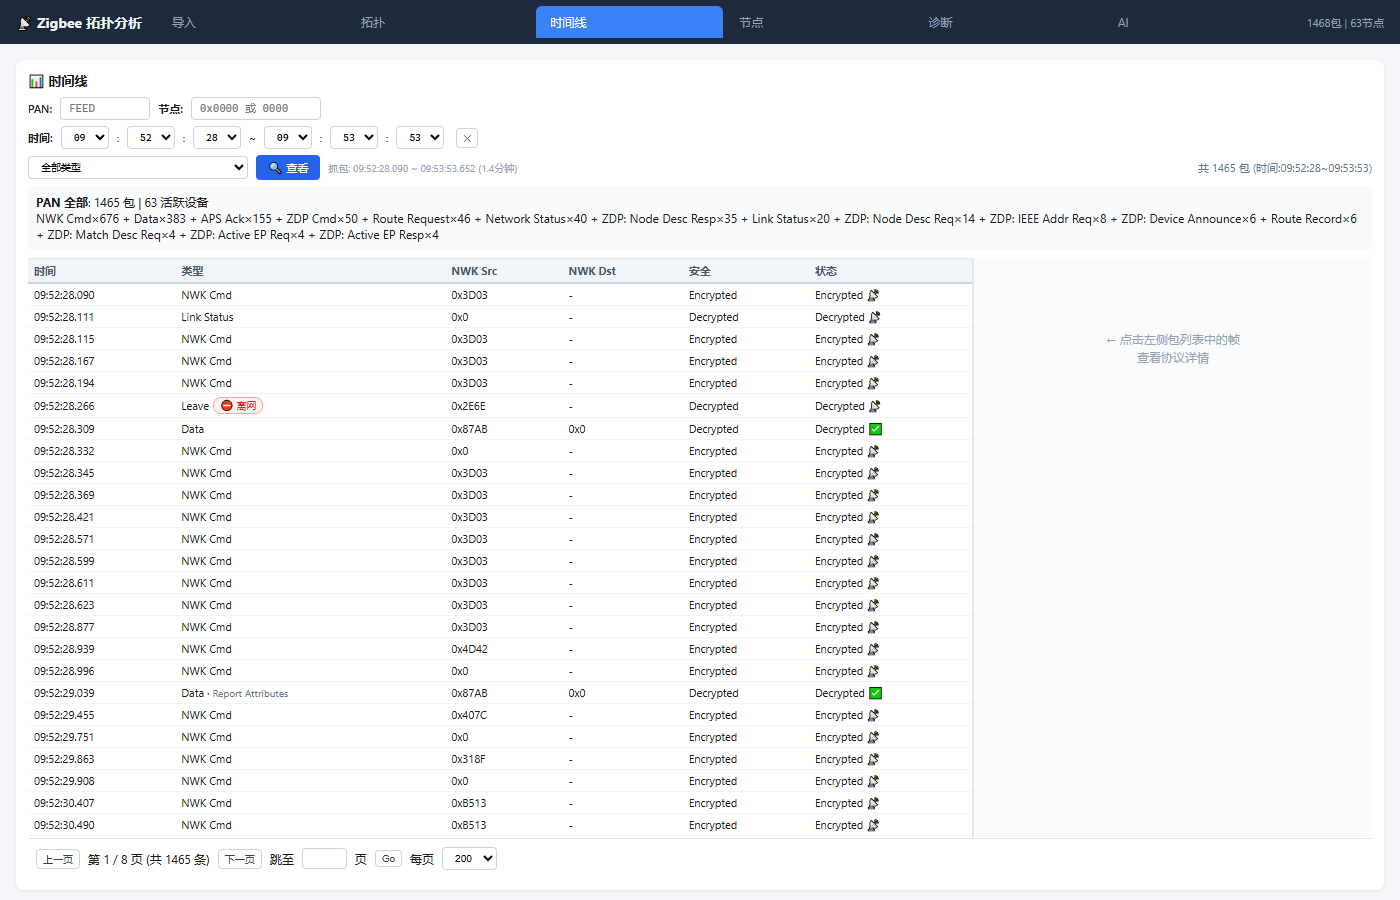
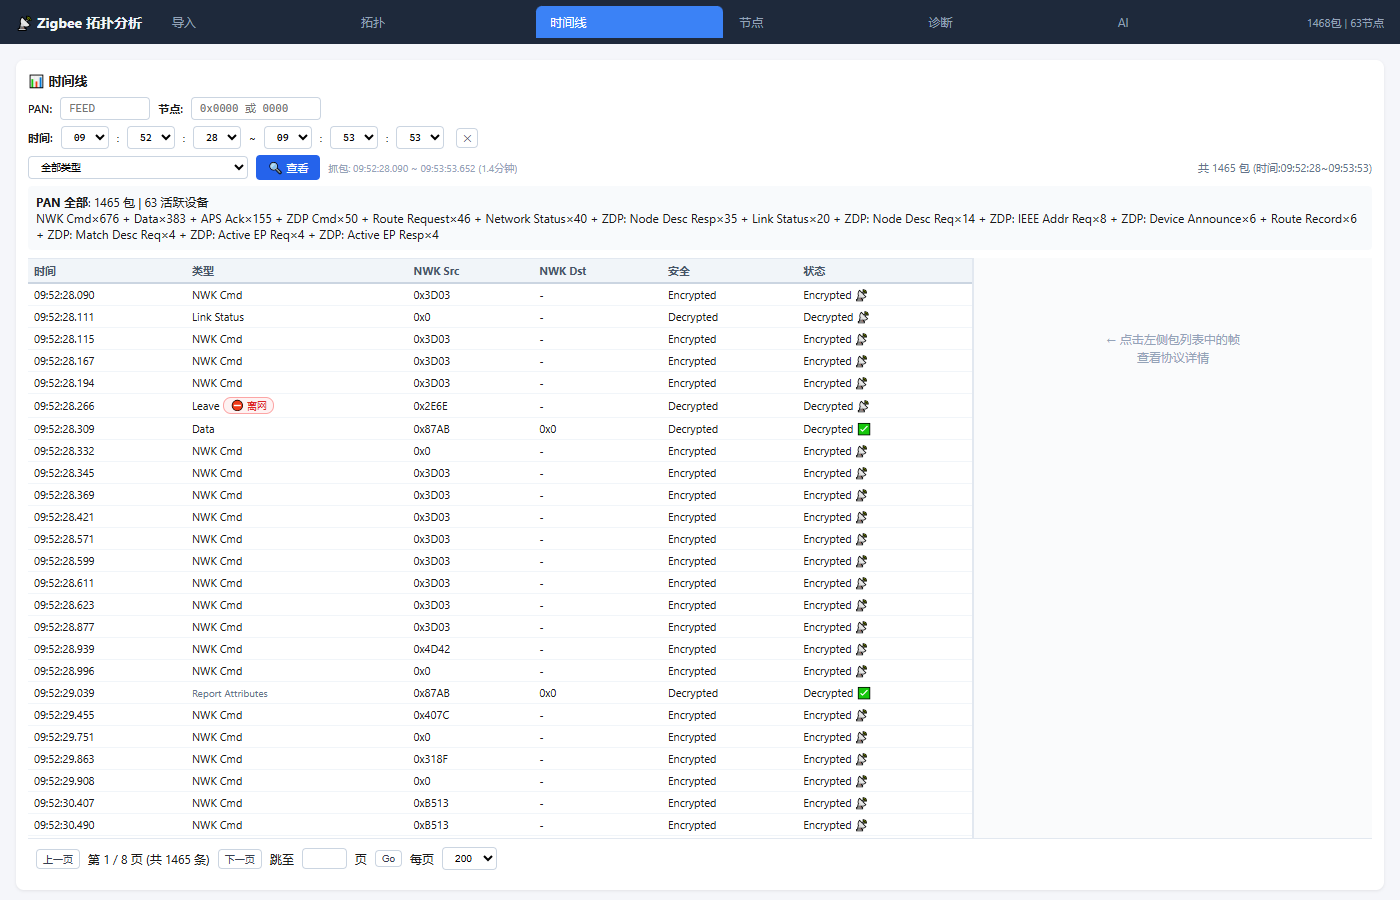
fix: ZCL 命令按簇正确显示 (Window Covering 0x01=Down/Close) + 类型列去 Data 前缀
- 根因: 前端 _tlZclCmd 用混合硬编码表 (含 OTA 命令), 不按簇区分 —
  0x01 在 Window Covering 簇 (0x0102) 是 Down/Close, 被误标 OTA: Query Next Image
- 修复: packet_detail 输出 zcl_cmd_name (后端 zcl_defs 按簇解析), 前端详情优先使用;
  _tlZclCmd 降为兜底; 类型列去掉 "Data ·" 直接显示命令/簇名
- 验证: 8721 实例 — 详情端点 zcl_cmd_name=Reset to Factory Defaults (Basic);
  类型列 "Report Attributes" 无前缀 (playwright); 0x0102→Down/Close 依据 zcl_defs 源码

diff --git a/frontend/js/timeline.js b/frontend/js/timeline.js
@@ -188,13 +188,13 @@ reg('tl', function(){
         }else if(p.pkt_type==='Network Status'){
           evBadge='<span class="badge-ev badge-nstat" title="网络状态命令 (NWK 0x03), 详见右侧详情">⚠ 状态</span>';
         }
-        // ZCL 命令级显示 (U5): 解密 Data 帧类型列显示实际命令 (如 "Report Attributes"),
-        // 而非笼统的 "Data"; 过滤仍按 pkt_type=Data (后端), 仅展示增强
+        // ZCL 命令级显示 (U5): 解密 Data 帧类型列直接显示实际命令 (如 "Down / Close"),
+        // 去掉笼统的 "Data"; 过滤仍按 pkt_type=Data (后端), 仅展示增强
         var typeDisp=p.pkt_type;
         if(p.decrypted&&p.zcl_cmd_name){
-          typeDisp='Data · <span class="zcl-cmd" title="ZCL 簇: '+(p.aps_cluster_name||'?')+' · 命令: '+p.zcl_cmd_name+'">'+p.zcl_cmd_name+'</span>';
+          typeDisp='<span class="zcl-cmd" title="ZCL 簇: '+(p.aps_cluster_name||'?')+' · 命令: '+p.zcl_cmd_name+'">'+p.zcl_cmd_name+'</span>';
         }else if(p.decrypted&&p.aps_cluster_name){
-          typeDisp='Data · <span class="zcl-cmd" title="ZCL 簇: '+p.aps_cluster_name+'">'+p.aps_cluster_name+'</span>';
+          typeDisp='<span class="zcl-cmd" title="ZCL 簇: '+p.aps_cluster_name+'">'+p.aps_cluster_name+'</span>';
         }
         var decIcon='';
         if(isNwkCmdRow){
@@ -487,8 +487,11 @@ reg('tl', function(){
           var dir='?';
           if(typeof fcf==='object'&&fcf['zbee_zcl.dir']==='1')dir='Server→Client';
           else if(typeof fcf==='object'&&fcf['zbee_zcl.dir']==='0')dir='Client→Server';
+          // ⚠ 修复 (U5): 优先用后端按簇解析的命令名 (zcl_defs), 前端混合表兜底 —
+          // 此前 0x01 在 Window Covering 簇被误标为 "OTA: Query Next Image"
+          var zclCmd=d.zcl_cmd_name||_tlZclCmd(zcl);
           html+=_tlLayer('ZCL', '#7c3aed', [
-            ['Command', _tlZclCmd(zcl)],
+            ['Command', zclCmd],
             ['Direction', dir],
             ['Seq#', zcl['zbee_zcl.cmd.tsn']||'?'],
           ]);

diff --git a/backend/api/files.py b/backend/api/files.py
@@ -878,4 +878,7 @@ async def packet_detail(pkt_id: int):
         "decrypted": p.get("decrypted", False),
         "security": p.get("security", ""),
         "layers": layers,  # 完整 tshark JSON 层树 (cubx 路径为 fallback 构造)
+        # ZCL 按簇正确解析的命令名 (前端详情 ZCL 层优先使用, 避免前端混合表误标)
+        "zcl_cmd_name": p.get("zcl_cmd_name"),
+        "aps_cluster_name": p.get("aps_cluster_name"),
     }
